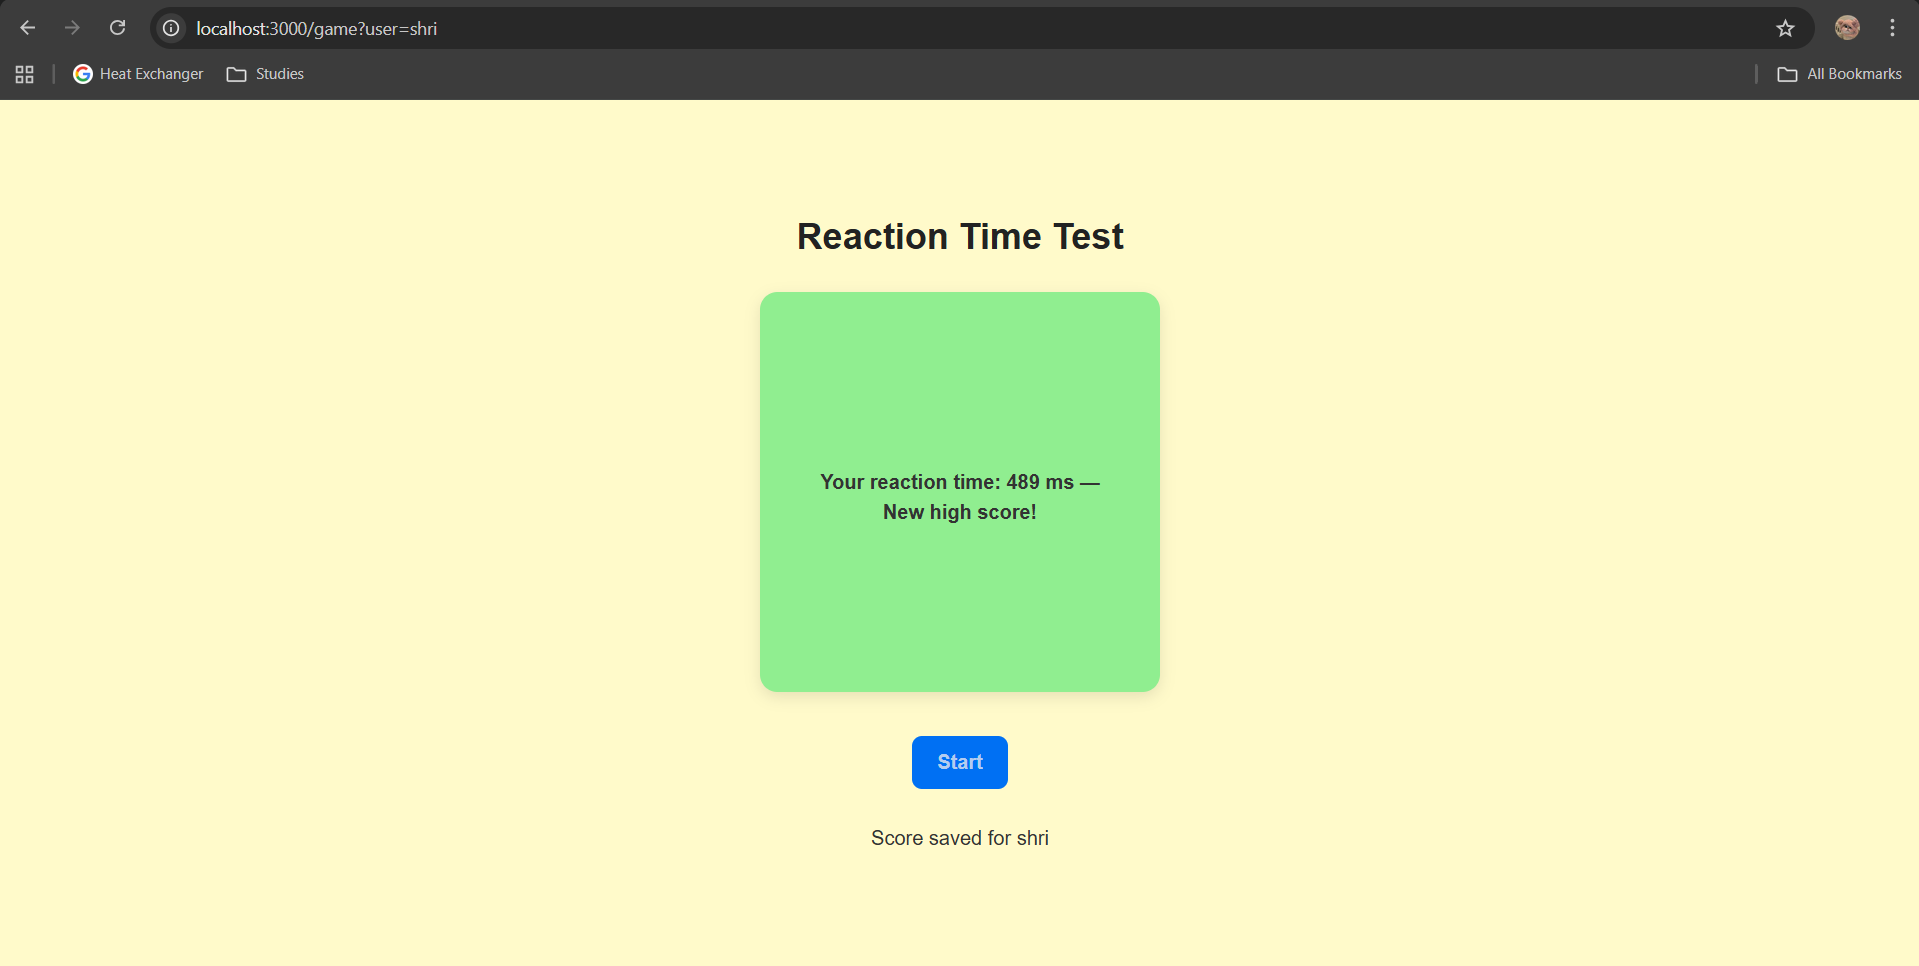
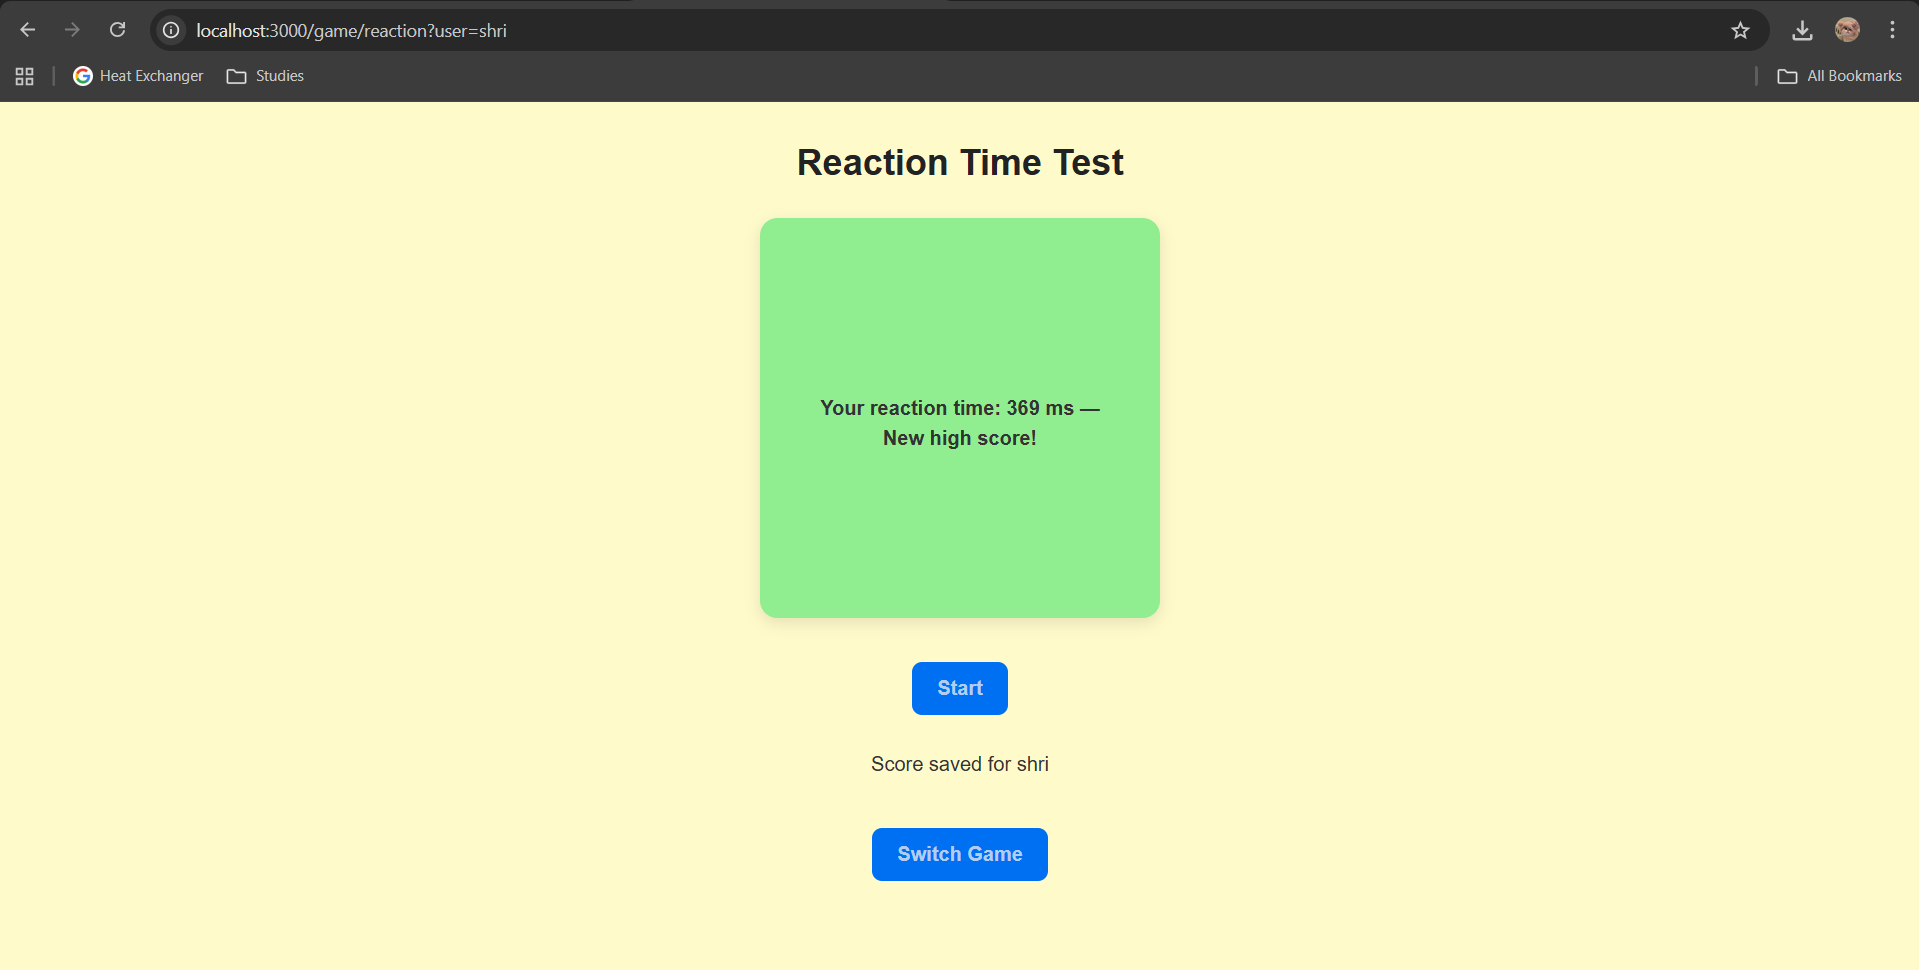
memory match with timer

diff --git a/frontend/src/app/game/memory/page.jsx b/frontend/src/app/game/memory/page.jsx
@@ -1,29 +1,143 @@
 "use client";
 
+import { useState, useEffect } from "react";
+import { useRouter, useSearchParams } from "next/navigation";
 import styles from "./page.module.css";
-import { useRouter } from "next/navigation";
+
+// Import all 18 images from src/app
+import autumnleaf from "@/app/autumnleaf.png";
+import basketball from "@/app/basketball.png";
+import books from "@/app/books.png";
+import chocolate from "@/app/chocolate.png";
+import christmastree from "@/app/christmastree.png";
+import cupcake from "@/app/cupcake.png";
+import domino from "@/app/domino.png";
+import gameconsole from "@/app/gameconsole.png";
+import jam from "@/app/jam.png";
+import luffyhat from "@/app/luffyhat.png";
+import penguin from "@/app/penguin.png";
+import popcorn from "@/app/popcorn.png";
+import ship from "@/app/ship.png";
+import snowman from "@/app/snowman.png";
+import sun from "@/app/sun.png";
+import testtube from "@/app/testtube.png";
+import umbrella from "@/app/umbrella.png";
+import witchhat from "@/app/witchhat.png";
 
 export default function MemoryGame() {
   const router = useRouter();
+  const params = useSearchParams();
+  const username = params.get("user");
 
-  // Create 36 cells for 6×6 grid
-  const gridItems = Array.from({ length: 36 }, (_, i) => i);
+  // List of all image imports
+  const images = [
+    autumnleaf, basketball, books, chocolate, christmastree,
+    cupcake, domino, gameconsole, jam, luffyhat,
+    penguin, popcorn, ship, snowman, sun,
+    testtube, umbrella, witchhat
+  ];
+
+  // Create pairs and shuffle
+  const generateShuffledTiles = () => {
+    const allTiles = [...images, ...images] // 18 pairs
+      .map((img, index) => ({ id: index, img, revealed: false, matched: false }))
+      .sort(() => Math.random() - 0.5);
+    return allTiles;
+  };
+
+  const [tiles, setTiles] = useState(generateShuffledTiles());
+  const [selected, setSelected] = useState([]); // holds 2 clicked tiles
+  const [points, setPoints] = useState(0);
+  const [timer, setTimer] = useState(0);
+  const [isRunning, setIsRunning] = useState(false);
+
+  // Timer logic
+  useEffect(() => {
+    let interval;
+    if (isRunning) {
+      interval = setInterval(() => {
+        setTimer((t) => t + 1);
+      }, 1000);
+    }
+    return () => clearInterval(interval);
+  }, [isRunning]);
+
+  // Handle tile click
+  const handleTileClick = (index) => {
+    const tile = tiles[index];
+
+    // ignore if already revealed/matched
+    if (tile.revealed || tile.matched) return;
+
+    // start timer on first click
+    if (!isRunning) setIsRunning(true);
+
+    const updated = [...tiles];
+    updated[index].revealed = true;
+    setTiles(updated);
+
+    const newSelected = [...selected, { index, img: tile.img }];
+    setSelected(newSelected);
+
+    // When 2 tiles have been selected, check match
+    if (newSelected.length === 2) {
+      setTimeout(() => checkMatch(newSelected), 800);
+    }
+  };
+
+  // Match logic
+  const checkMatch = (pair) => {
+    const [a, b] = pair;
+
+    if (a.img === b.img) {
+      // Correct match
+      const updated = [...tiles];
+      updated[a.index].matched = true;
+      updated[b.index].matched = true;
+      setTiles(updated);
+      setPoints((p) => p + 1);
+
+      // All pairs found
+      if (points + 1 === 18) {
+        setIsRunning(false); // stop timer
+      }
+    } else {
+      // Not a match → flip back
+      const updated = [...tiles];
+      updated[a.index].revealed = false;
+      updated[b.index].revealed = false;
+      setTiles(updated);
+    }
+
+    setSelected([]);
+  };
 
   return (
     <div className={styles.container}>
       <h1 className={styles.title}>Memory Match</h1>
 
+      <p className={styles.info}>
+        Points: {points} / 18 &nbsp;|&nbsp; Time: {timer}s
+      </p>
+
       <div className={styles.grid}>
-        {gridItems.map((item) => (
-          <button key={item} className={styles.cell}>
-            {""}
+        {tiles.map((tile, idx) => (
+          <button
+            key={tile.id}
+            className={`${styles.cell} ${tile.revealed || tile.matched ? styles.revealed : ""}`}
+            onClick={() => handleTileClick(idx)}
+          >
+            {(tile.revealed || tile.matched) && (
+              <img src={tile.img.src} alt="" className={styles.img}/>
+            )}
           </button>
         ))}
       </div>
 
       <button
         className={styles.switchBtn}
-        onClick={() => router.push("/game/reaction")}
+        style={{ marginTop: "auto", marginBottom: "40px" }}
+        onClick={() => router.push(`/game/reaction?user=${username}`)}
       >
         Switch Game
       </button>

diff --git a/frontend/src/app/game/memory/page.module.css b/frontend/src/app/game/memory/page.module.css
@@ -2,50 +2,74 @@
   min-height: 100vh;
   display: flex;
   flex-direction: column;
-  justify-content: center;
+  justify-content: flex-start;
   align-items: center;
-  padding: 20px;
+  padding: 18px;
   background: #fac479;
 }
 
 .title {
   font-size: 32px;
-  margin-bottom: 20px;
+  margin-bottom: 25px;
+  color: #333;
+  font-weight: 700;
 }
 
 .grid {
   display: grid;
-  grid-template-columns: repeat(6, 60px);
-  grid-template-rows: repeat(6, 60px);
-  gap: 10px;
-  margin-bottom: 30px;
+  grid-template-columns: repeat(6, 70px);
+  grid-template-rows: repeat(6, 70px);
+  gap: 12px;
+  margin-bottom: 40px;
 }
 
 .cell {
-  width: 60px;
-  height: 60px;
-  background: rgb(136, 186, 213);
-  border: 2px solid #333;
+  width: 70px;
+  height: 70px;
+  background: #88bad5;
+  border: 2px solid #2a2a2a;
   border-radius: 8px;
   cursor: pointer;
-  transition: 0.2s ease;
+  transition: transform 0.15s ease, background 0.2s ease, box-shadow 0.2s ease;
+  display: flex;
+  align-items: center;
+  justify-content: center;
+  overflow: hidden;
 }
 
 .cell:hover {
-  background: #788fdb;
+  background: #6eaace;
+  transform: scale(1.05);
+  box-shadow: 0px 0px 8px rgba(0,0,0,0.2);
+}
+
+.revealed {
+  background: #ffffff;
+  transform: scale(1.0);
+  box-shadow: 0px 0px 6px rgba(0,0,0,0.25);
+}
+
+.img {
+  width: 100%;
+  height: 100%;
+  object-fit: contain;
+  pointer-events: none;
 }
 
 .switchBtn {
-  padding: 12px 25px;
+  margin-top: auto;
+  margin-bottom: 20px;
+  padding: 12px 28px;
   background: #333;
   color: white;
   border: none;
   border-radius: 8px;
-  font-size: 16px;
+  font-size: 17px;
   cursor: pointer;
-  transition: 0.2s;
+  transition: background 0.25s ease, transform 0.1s ease;
 }
 
 .switchBtn:hover {
   background: #555;
+  transform: scale(1.05);
 }

diff --git a/README.md b/README.md
@@ -1,15 +1,52 @@
 # ⚡ Reactivity
 
-A simple web-based game built using **React.js**, **Node.js**, and **PostgreSQL**, where users can log in and track their scores.
+A simple web-based game built using **React.js**, **Node.js**, and **PostgreSQL**, where users can log in, switch between multiple minigames, and track their scores.
 
 ---
 
 ## 🚀 Features
 
-- 🔐 User login system  
-- 🎮 Simple game interface  
-- 📊 Real-time score tracking and saving  
-- 🗄 PostgreSQL database integration  
+- 🔐 **User authentication system**  
+- 🎮 **Two fully playable minigames**:  
+  - **Reaction Time Test** – measure how quickly you respond to a color change  
+  - **Memory Match** – a 6×6 tile-matching puzzle using 18 themed images  
+- 🔄 **Switch Game** button to swap between Reaction Time and Memory Match  
+- 🧠 **High score tracking for both games**  
+  - `reaction_time_score`  
+  - `memory_match_score`  
+- ⏱ Memory Match includes a timer + automatic high score detection  
+- 📊 Real-time score saving via backend  
+- 🗄 **PostgreSQL database integration**  
+- 🔐 Environment handling via `.env`  
+
+---
+
+## 🎮 Minigames Overview
+
+### 🎯 Reaction Time Test  
+- Click as soon as the screen turns green  
+- Tracks your reaction time in milliseconds  
+- Saves score to `reaction_time_score`  
+- Displays **New Highscore!** when your time improves  
+- Clean UI with clear prompts and color states
+
+---
+
+### 🧠 Memory Match  
+- A **6×6 grid** containing 18 pairs of shuffled tiles  
+- Each tile corresponds to one of the following images:  
+  `autumnleaf`, `basketball`, `books`, `chocolate`,  
+  `christmastree`, `cupcake`, `domino`, `gameconsole`,  
+  `jam`, `luffyhat`, `penguin`, `popcorn`,  
+  `ship`, `snowman`, `sun`, `testtube`,  
+  `umbrella`, `witchhat`
+
+- Features include:
+  - Tile reveal on click  
+  - Automatic mismatch flipping  
+  - Match counter  
+  - Timer starts on the first click  
+  - Timer stops on completing all 18 matches
 
 ---
 
@@ -22,24 +59,36 @@ A simple web-based game built using **React.js**, **Node.js**, and **PostgreSQL*
 
 ---
 
-## Website:
+## 📸 Screenshots
 
-- Login:
-![Login](images/login.png)
+- **Login**  
+  ![Login](images/login.png)
 
-- Register:
-![Register](images/register.png)
+- **Register**  
+  ![Register](images/register.png)
 
-- Initial State:
-![Initial State](images/react_init.png)
+- **Reaction Game – Initial State**  
+  ![Initial](images/react_init.png)
 
-- After Start:
-![After Start](images/react_started.png)
+- **Reaction Game – After Start**  
+  ![Start](images/react_started.png)
 
-- Score:
-![Score](images/react_score.png)
+- **Reaction Game – Score**  
+  ![Score](images/react_score.png)
 
-- New Highscore:
-![New Highscore](images/react_highscore.png)
+- **Reaction Game – New Highscore**  
+  ![Highscore](images/react_highscore.png)
+
+---
+
+### 🧩 Memory Match Screenshots (Add yours when ready!)
 
 
+- **Memory Match Game – Initial State**  
+  ![Initial](images/react_init.png)
+
+- **Memory Match Game – During Play**  
+  ![Start](images/react_started.png)
+
+- **Memory Match Game – Score**  
+  ![Score](images/react_score.png)
